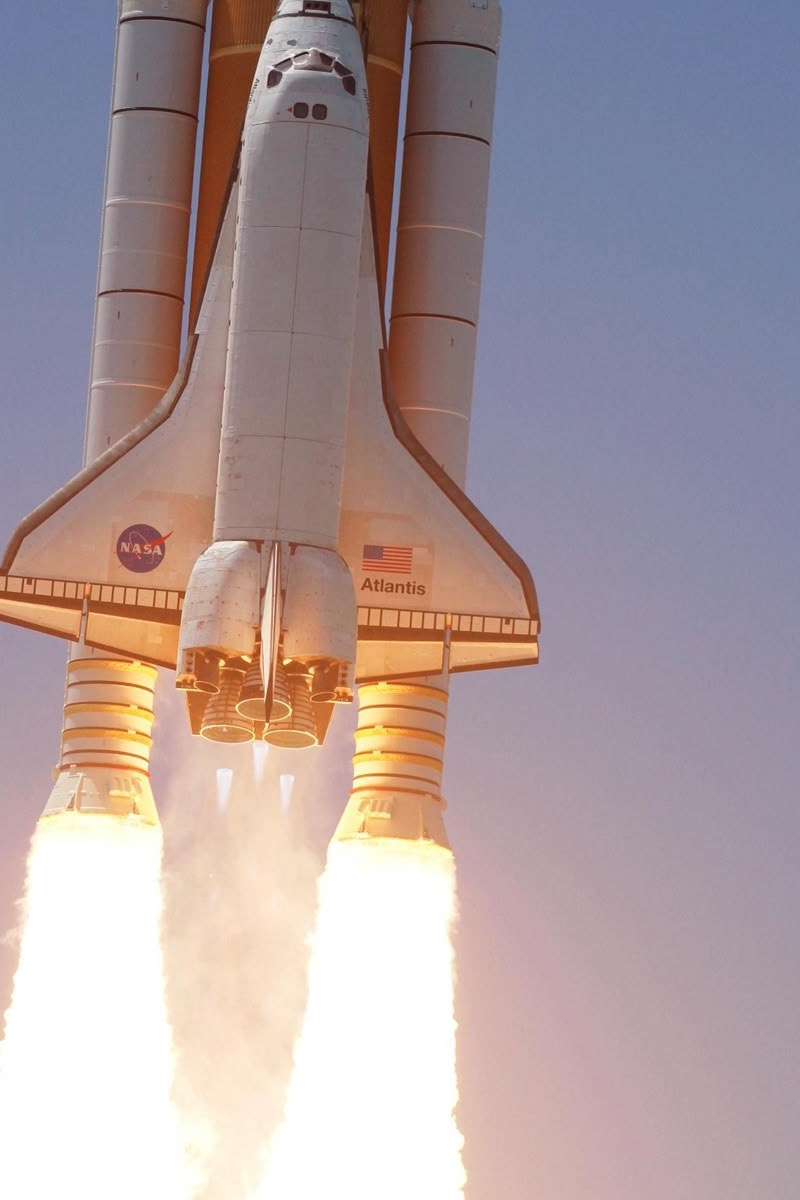
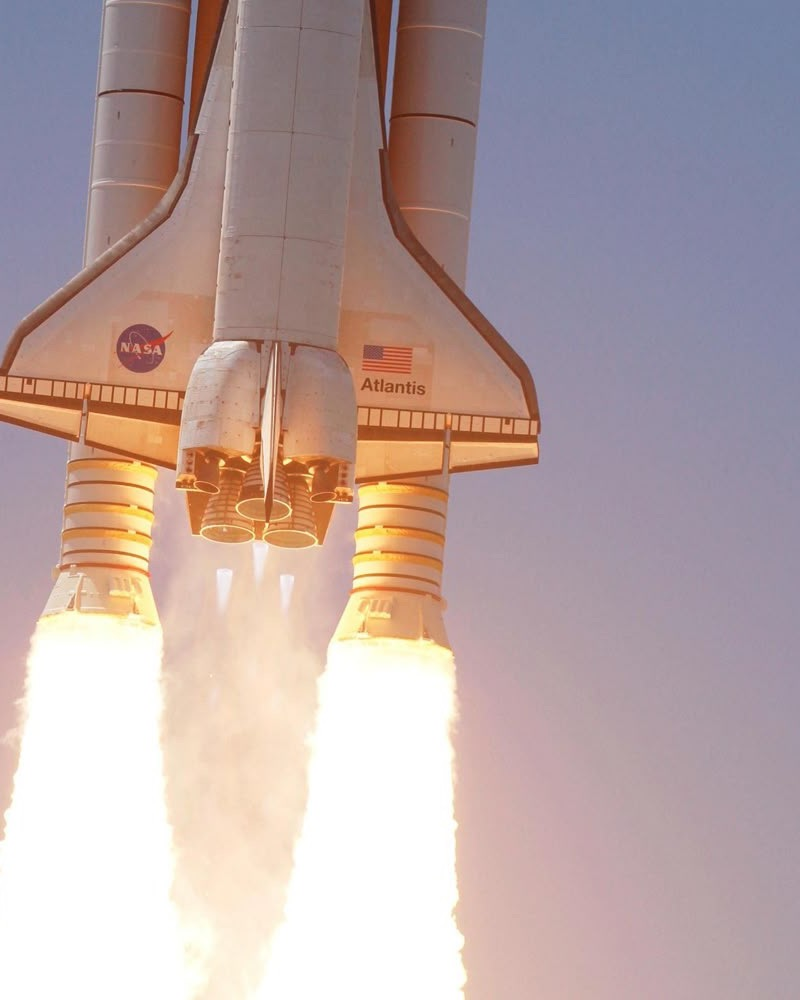
feat(web): caper 사진 비율을 4:5로 고정
인스타그램 세로 사진과 같은 4:5 하나로 고정하고(CAPER_IMAGE_RATIO), 스키마가 4:5가 아닌 사진을 막는다(반올림 1% 허용). 올릴 때 이 비율로 자르는 기능은 만들기 화면 이슈에서 만든다. 샘플 사진을 4:5로 다시 잘랐고, 가로 사진 케이스는 사진 한 장 케이스로 바꿨다.

diff --git a/src/entities/caper/fixtures.ts b/src/entities/caper/fixtures.ts
@@ -14,26 +14,26 @@ export type CaperFixture = {
   caper: Caper;
 };
 
-// 샘플 사진은 사용자가 준 우주왕복선 발사 사진 한 장을 여러 구도로 자른 것이다.
+// 샘플 사진은 사용자가 준 우주왕복선 발사 사진 한 장을 4:5로 여러 구도로 자른 것이다.
 const LAUNCH: CaperImage = {
   path: "preview/to-the-moon.jpg",
   width: 1200,
-  height: 1800,
+  height: 1500,
 };
 const LAUNCH_NOSE: CaperImage = {
   path: "preview/to-the-moon-nose.jpg",
   width: 800,
-  height: 1200,
+  height: 1000,
+};
+const LAUNCH_ORBITER: CaperImage = {
+  path: "preview/to-the-moon-orbiter.jpg",
+  width: 800,
+  height: 1000,
 };
 const LAUNCH_FLAME: CaperImage = {
   path: "preview/to-the-moon-flame.jpg",
   width: 800,
-  height: 1200,
-};
-const LAUNCH_WIDE: CaperImage = {
-  path: "preview/to-the-moon-wide.jpg",
-  width: 1200,
-  height: 800,
+  height: 1000,
 };
 
 const TO_THE_MOON: Caper = {
@@ -47,7 +47,7 @@ const TO_THE_MOON: Caper = {
     "준비물은 2L 페트병 두 개, 자전거 펌프, 고무마개, 절연 테이프, 날개로 쓸 하드보드지.",
     "토요일 오전 10시, 한강공원 잔디밭에서 첫 발사. 비가 오면 일요일로 미룬다.",
   ].join("\n\n"),
-  images: [LAUNCH, LAUNCH_NOSE, LAUNCH_FLAME, LAUNCH_WIDE],
+  images: [LAUNCH, LAUNCH_NOSE, LAUNCH_ORBITER, LAUNCH_FLAME],
   status: "active",
   crew: [
     { id: "dohyeon", name: "도현", role: "owner" },
@@ -107,16 +107,16 @@ export const CAPER_FIXTURES: readonly CaperFixture[] = [
     },
   }),
   fixture({
-    key: "one-wide-image",
-    label: "가로 사진 한 장",
-    note: "가로 사진 1장(위치 막대 없음), 설명 없음, 완료",
+    key: "one-image",
+    label: "사진 한 장",
+    note: "사진 1장(위치 막대 없음), 설명 없음, 완료",
     caper: {
       id: "liftoff",
       title: "Liftoff",
       titlePlacement: "below",
       slogan: "마지막 발사를 처음부터 끝까지",
       subtitle: "우주왕복선 발사 영상 보면서 밤새기",
-      images: [LAUNCH_WIDE],
+      images: [LAUNCH_FLAME],
       status: "done",
       crew: [
         { id: "dohyeon", name: "도현", role: "owner" },

diff --git a/src/entities/caper/schema.ts b/src/entities/caper/schema.ts
@@ -7,12 +7,27 @@ export const CAPER_STATUSES = ["planning", "active", "done"] as const;
 
 export const caperStatusSchema = z.enum(CAPER_STATUSES);
 
+// 사진 비율은 인스타그램 세로 사진과 같은 4:5 하나로 고정한다. 올릴 때 이 비율로 자르고,
+// 화면의 사진 틀도 이 비율을 쓴다(폰·데스크탑 같음).
+export const CAPER_IMAGE_RATIO = { width: 4, height: 5 } as const;
+
+// 반올림으로 생기는 1px 차이 정도는 받아 준다.
+const RATIO_TOLERANCE = 0.01;
+
 // 사진은 Storage 경로와 원본 가로·세로만 둔다. 크기는 사진이 오기 전에 자리를 잡는 데 쓴다.
-export const caperImageSchema = z.object({
-  path: z.string().min(1),
-  width: z.int().positive(),
-  height: z.int().positive(),
-});
+export const caperImageSchema = z
+  .object({
+    path: z.string().min(1),
+    width: z.int().positive(),
+    height: z.int().positive(),
+  })
+  .refine(
+    ({ width, height }) =>
+      Math.abs(
+        width / height - CAPER_IMAGE_RATIO.width / CAPER_IMAGE_RATIO.height,
+      ) <= RATIO_TOLERANCE,
+    { message: "사진은 4:5 비율이어야 합니다." },
+  );
 
 // 제목을 표지(첫 장) 아래에 둘지 위에 얹을지. 사진이 없으면 over 여도 아래에 둔다.
 export const TITLE_PLACEMENTS = ["below", "over"] as const;

diff --git a/src/entities/caper/index.ts b/src/entities/caper/index.ts
@@ -1,4 +1,5 @@
 export {
+  CAPER_IMAGE_RATIO,
   CAPER_LIMITS,
   CAPER_STATUSES,
   caperImageSchema,
